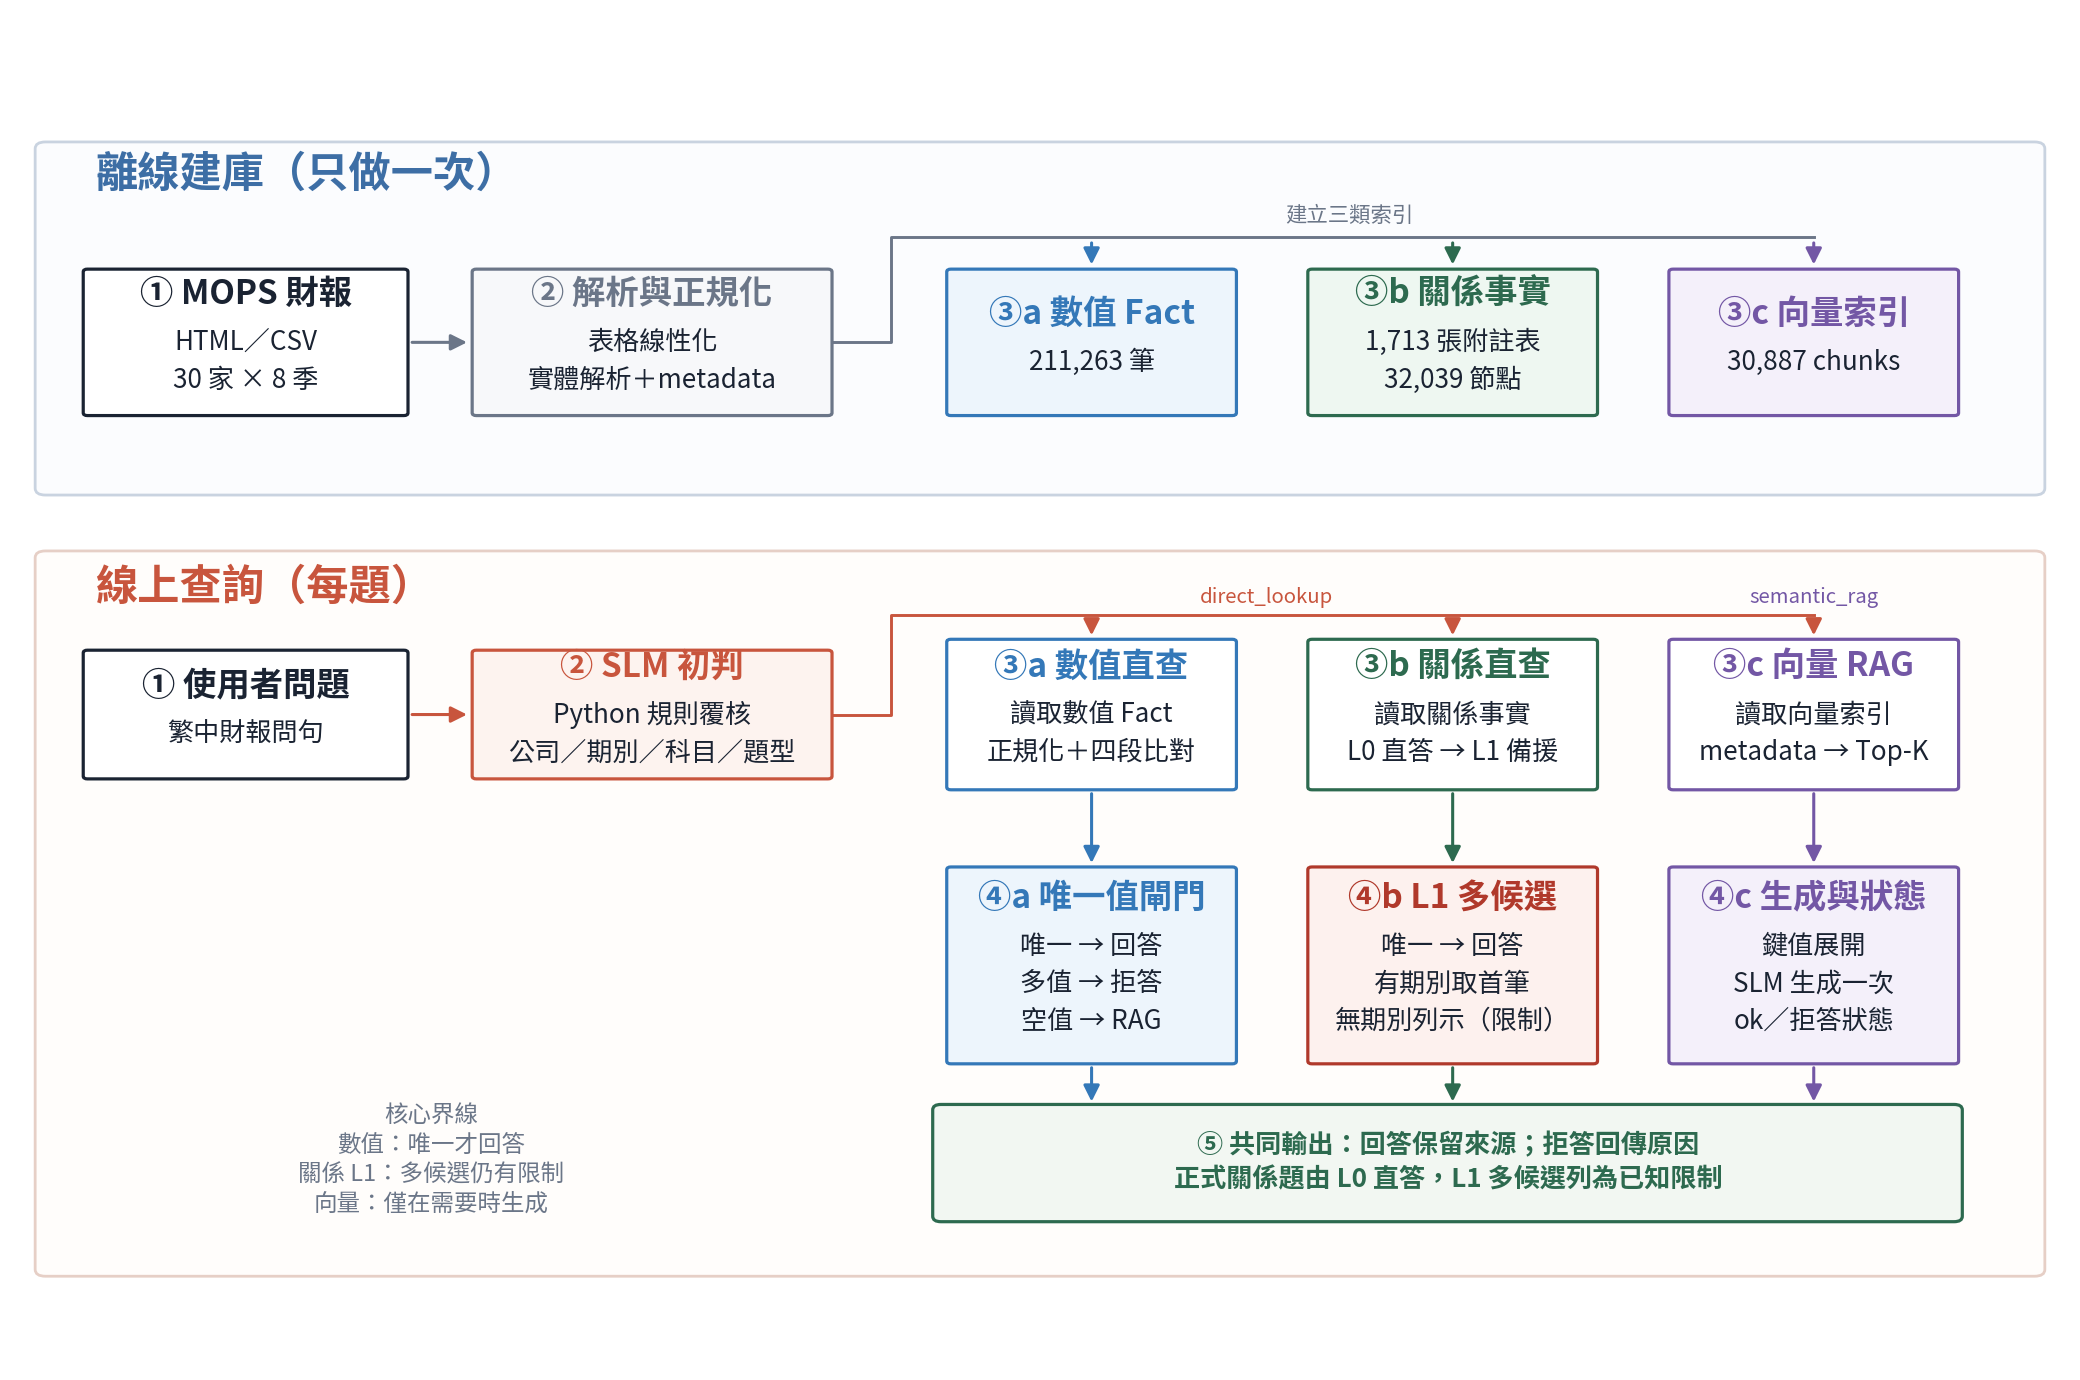
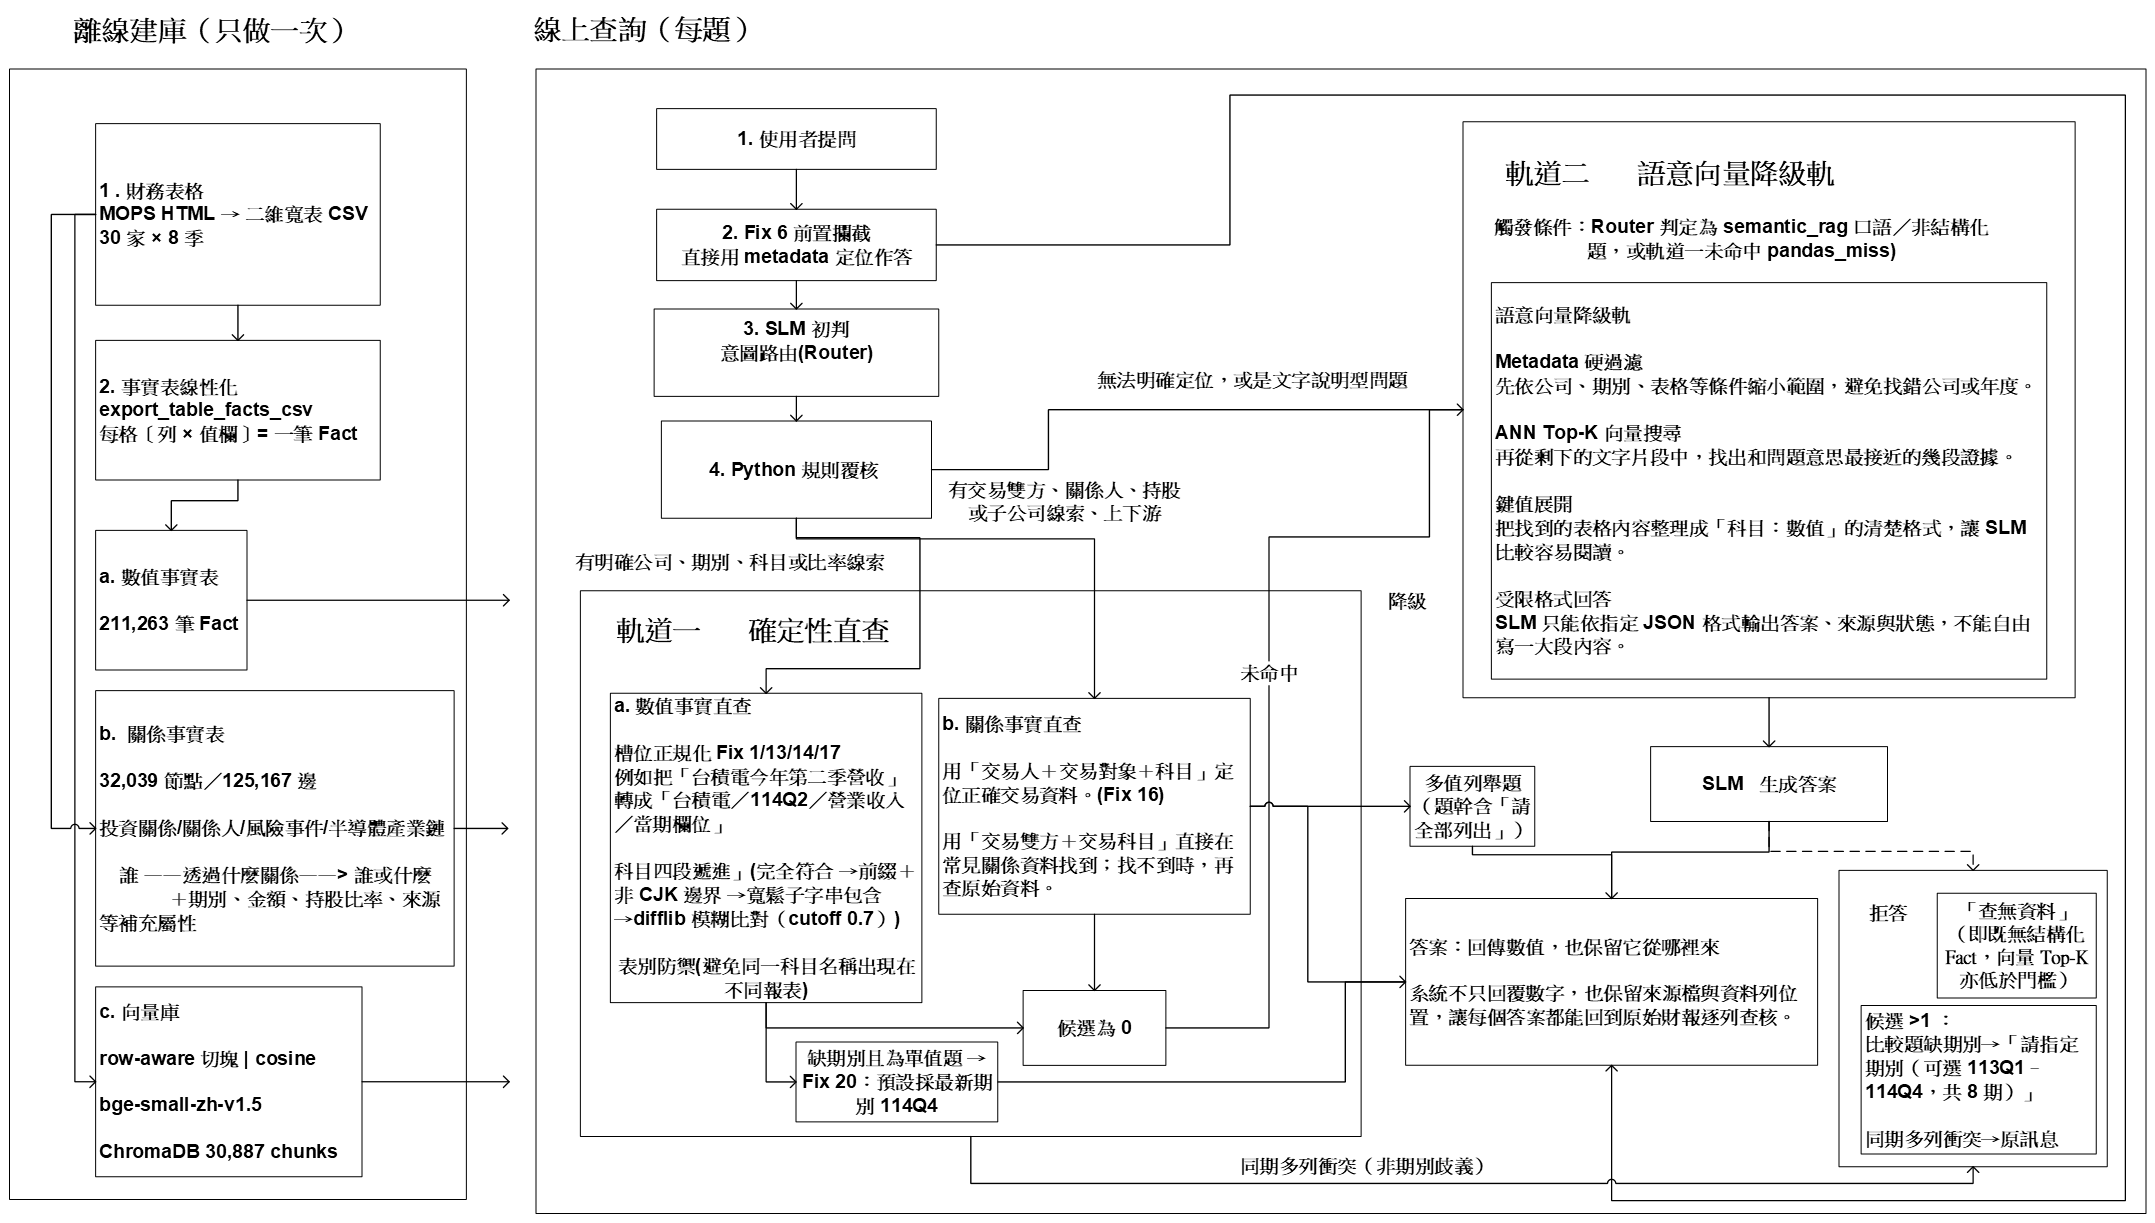
更新系統架構流程圖，並同步技術報告之線上流程說明
- docs/images/architecture.png 換為新版流程圖：Fix 6 前置攔截、Python 規則覆核三向分流、
  科目四段遞進比對、Fix 20 預設期別、多值列舉、拒答情境
- REPORT.md §3 依新圖改寫離線建庫、軌道一／二與輸出之步驟

Claude-Session: https://claude.ai/code/session_01GyCP4xHBE9Dwx9ohuix1s4

diff --git a/REPORT.md b/REPORT.md
@@ -46,15 +46,44 @@
 
 ![架構](docs/images/architecture.png)
 
-**線上流程（每題）**
+**離線建庫（只做一次）**：MOPS HTML → 二維寬表 CSV（30 家 × 8 季）→ 事實表線性化（每格〔列 × 值欄〕＝一筆 Fact），產出三類索引：
+數值事實表（211,263 筆）、關係事實表（投資／關係人／風險事件／半導體產業鏈，32,039 節點／125,167 邊，「誰—透過什麼關係→誰或什麼」加期別、金額、持股比率、來源等屬性）、
+向量庫（row-aware 切塊、cosine、bge-small-zh-v1.5、ChromaDB 30,887 chunks）。
 
-1. **SLM 意圖路由**：Qwen3-4B-AWQ 以 JSON Schema 強制解碼輸出槽位（公司、期別、科目、表名、欄位、題型），Pydantic 驗證；Python 規則覆核並決定最終路由。
-2. **槽位補全與正規化**：由原句 regex 補回小模型遺失或截斷的槽位，並做口語對映（Fix 群一、二）。
-3. **軌道一 `direct_lookup`**
-   - 數值分支：對 Fact 表以公司、期別、表名、科目、欄位做集合過濾。
-   - 關係分支：L0 樣板直答（預編譯關係事實表）。
-4. **唯一性閘門**：唯一 → 回答；多值 → 拒答並指出缺少的條件；空值 → 降級到軌道二。
-5. **軌道二 `semantic_rag`**：metadata 硬過濾＋ Top-K 向量檢索，SLM 生成一次，輸出 `ok` 或拒答狀態。
+**線上查詢（每題）**
+
+1. **使用者提問**
+2. **Fix 6 前置攔截**：題目可直接用 metadata 定位者，於 Router 之前直接作答。
+3. **SLM 初判**：Qwen3-4B-AWQ 意圖路由（Router），以 JSON Schema 強制解碼輸出槽位並以 Pydantic 驗證。
+4. **Python 規則覆核**，依線索分流：
+   - 有明確公司、期別、科目或比率線索 → **軌道一 a. 數值事實直查**
+   - 有交易雙方、關係人、持股或子公司、上下游線索 → **軌道一 b. 關係事實直查**
+   - 無法明確定位，或是文字說明型問題 → **軌道二 語意向量降級軌**
+
+**軌道一　確定性直查**
+
+- **a. 數值事實直查**
+  - 槽位正規化（Fix 1／13／14／17）：例如把「台積電今年第二季營收」轉成「台積電／114Q2／營業收入／當期欄位」。
+  - 科目四段遞進比對：完全符合 → 前綴＋非 CJK 邊界 → 寬鬆子字串包含 → difflib 模糊比對（cutoff 0.7）。
+  - 表別防禦：避免同一科目名稱出現在不同報表時取錯表。
+  - 缺期別且為單值題 → Fix 20 預設採最新期別 114Q4，並於答案中揭露。
+- **b. 關係事實直查**：以「交易人＋交易對象＋科目」定位正確交易資料（Fix 16）；用「交易雙方＋交易科目」直接在常見關係資料找，找不到時再查原始資料。題幹含「請全部列出」的多值列舉題，全列並列作答。
+- **候選為 0**（未命中）→ 降級至軌道二；**同期多列衝突**（非期別歧義）→ 拒答。
+
+**軌道二　語意向量降級軌**（觸發：Router 判定為 semantic_rag 之口語／非結構化題，或軌道一未命中）
+
+1. Metadata 硬過濾：先依公司、期別、表格等條件縮小範圍，避免找錯公司或年度。
+2. ANN Top-K 向量搜尋：在剩下的片段中找出與問題意思最接近的證據。
+3. 鍵值展開：把表格內容整理成「科目：數值」格式，讓 SLM 比較容易閱讀。
+4. 受限格式回答：SLM 只能依指定 JSON 格式輸出答案、來源與狀態，不能自由寫一大段內容。
+
+**輸出**
+
+- **答案**：回傳數值，並保留來源檔與資料列位置，讓每個答案都能回到原始財報逐列查核。
+- **拒答**
+  - 查無資料：既無結構化 Fact，向量 Top-K 亦低於門檻。
+  - 候選 > 1：比較題缺期別時回覆「請指定期別（可選 113Q1–114Q4，共 8 期）」。
+  - 同期多列衝突：回傳原訊息。
 
 **架構的分界**畫在「答案由程式取出 vs 由模型生成」，而不是「資料是不是圖」。開發中期曾有第三軌「線上圖遍歷（GraphRAG）」，實測後下架（§7 F4）。
 
